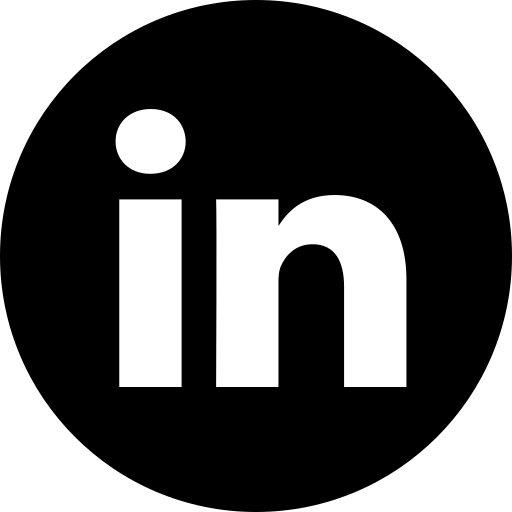
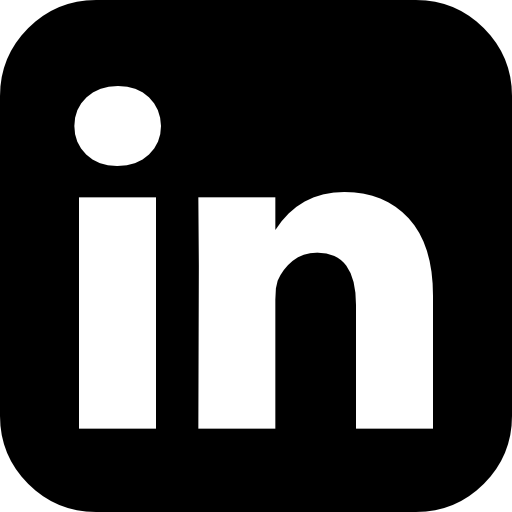
8/4/2025 - Updated About Me

diff --git a/src/App.css b/src/App.css
@@ -822,7 +822,7 @@ a {
   .aboutmelinks{
     /*background-color: orange;*/
     display: flex;
-    justify-content: space-around;
+    justify-content: space-evenly;
     width: 870px;
     margin-left: auto;
     margin-right: auto;
@@ -834,12 +834,12 @@ a {
     margin-top: auto;
     margin-bottom: auto;
   }
-  .githubbutton{
+  .aboutmebutton{
     filter: brightness(.75);
     margin-top: auto;
     margin-bottom: auto;
-    height: 47px;
-    width: 175px;
+    height: 42px;
+    width: 160px;
     display: flex;
     justify-content: space-evenly;
     padding-left: 10px;
@@ -850,27 +850,31 @@ a {
     border: solid 1px rgba(219, 219, 219, .2);
     box-shadow: inset 0 0 15px rgba(85, 85, 85, 0.356), 
               0 0px 10px rgba(153, 141, 141, 0.199);
-    background: radial-gradient(circle, rgba(190, 190, 190, 0.25) 0%, rgba(70, 70, 70, 0.95) 100%);
-
   }
-  .githubbutton:hover{
+  .aboutmebutton:hover{
     transform: translateY(-3px);
     filter: brightness(.95);
     box-shadow: inset 0 0 15px rgba(85, 85, 85, 0.281), 
               0 0px 15px rgba(153, 141, 141, 0.445);
   }
-  .githubbutton p{
+  .aboutmebutton p{
     /*background-color: green;*/
     font-family: "Geist";
     font-weight: 650;
-    font-size: 20px;
+    font-size: 16px;
     align-self: center;
+  }
+  .linkedinbutton{
+    background: radial-gradient(circle, rgba(120, 180, 230, 0.3) 0%, rgba(20, 40, 60, 0.95) 100%);
+  }
+  .githubbutton{
+    background: radial-gradient(circle, rgba(190, 190, 190, 0.25) 0%, rgba(70, 70, 70, 0.95) 100%);
   }
   .github{
     margin-top: auto;
     margin-bottom: auto;
-    width: 35px;
-    height: 35px;
+    width: 32px;
+    height: 32px;
     filter: invert(1) brightness(.9);
     margin-right: 10px;
   }

diff --git a/src/App.js b/src/App.js
@@ -112,13 +112,18 @@ function App() {
                 </div>
               </div>
               <div className='aboutmelinks'>
+                <a href = "https://www.linkedin.com/in/pearce-packman/" target = "_blank" rel="noopener noreferrer" alt = "linkedin">
+                <div className='aboutmebutton linkedinbutton'>
+                  <img className='github' src = { linkedin }></img>
+                  <p>LinkedIn Page</p>
+                </div>
+                </a>
                 <a href = "https://github.com/pearcepackman" target = "_blank" rel="noopener noreferrer" alt = "github">
-                <div className='githubbutton'>
+                <div className='aboutmebutton githubbutton'>
                   <img className='github' src = { github }></img>
                   <p>GitHub Page</p>
                 </div>
                 </a>
-                <p>GITHUB</p>
               </div>
             </div>
           </ScrollFadeIn>
